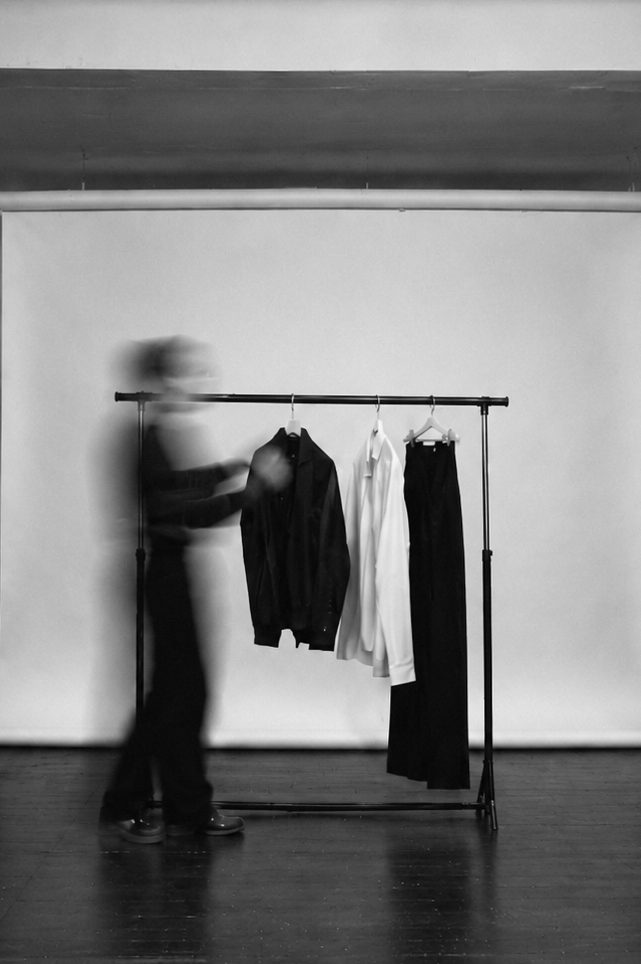
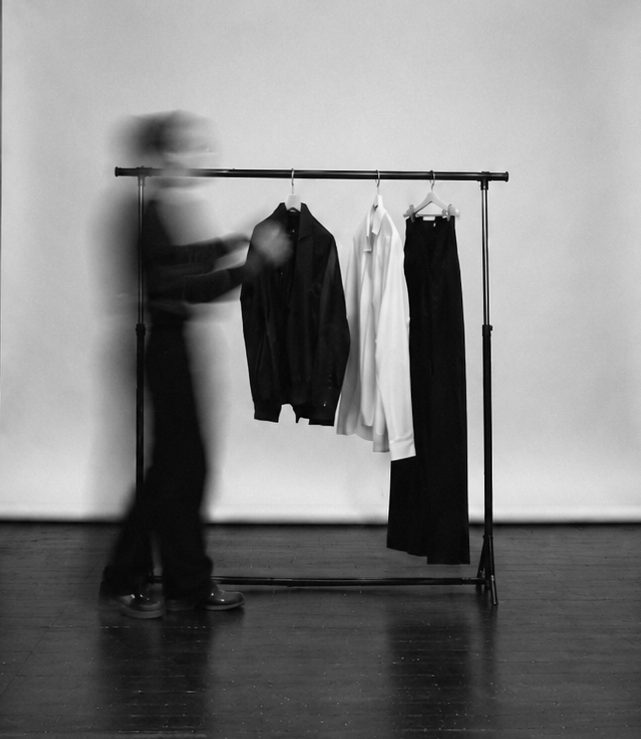
Werbung-Bild aktualisiert; Karte (Lage) unter Preisliste verschoben + Menue-Reihenfolge

diff --git a/index.html b/index.html
@@ -283,8 +283,8 @@
   </div>
   <div class="mnav-links">
     <a href="#raum" onclick="toggleMenu()"><span class="mn">01</span><span class="de">Studio</span><span class="en">Space</span></a>
-    <a href="#lage" onclick="toggleMenu()"><span class="mn">02</span><span class="de">Lage</span><span class="en">Location</span></a>
-    <a href="#angebot" onclick="toggleMenu()"><span class="mn">03</span><span class="de">Preisliste</span><span class="en">Prices</span></a>
+    <a href="#angebot" onclick="toggleMenu()"><span class="mn">02</span><span class="de">Preisliste</span><span class="en">Prices</span></a>
+    <a href="#lage" onclick="toggleMenu()"><span class="mn">03</span><span class="de">Lage</span><span class="en">Location</span></a>
     <a href="#kontakt" onclick="toggleMenu()"><span class="mn">04</span><span class="de">Kontakt</span><span class="en">Contact</span></a>
   </div>
   <div class="mnav-foot">
@@ -363,25 +363,6 @@
   </div>
 </section>
 
-<section id="lage">
-  <div class="wrap">
-    <div class="kick"><span class="de">Lage</span><span class="en">Location</span></div>
-    <h2>Neustiftgasse 107/2 &middot; 1070 Wien</h2>
-    <div class="mapfilters">
-      <button class="mfbtn on" data-cat="hotel" onclick="toggleCat(this)">Hotels</button>
-      <button class="mfbtn on" data-cat="rental" onclick="toggleCat(this)"><span class="de">Verleih</span><span class="en">Rental</span></button>
-      <button class="mfbtn on" data-cat="food" onclick="toggleCat(this)"><span class="de">Restaurants &amp; Bars</span><span class="en">Food &amp; bars</span></button>
-      <button class="mfbtn on" data-cat="shop" onclick="toggleCat(this)"><span class="de">Supermärkte</span><span class="en">Groceries</span></button>
-      <button class="mfbtn on" data-cat="transit" onclick="toggleCat(this)"><span class="de">Öffis</span><span class="en">Transit</span></button>
-    </div>
-    <div id="map" class="map lagemap"></div>
-    <div class="locgrid">
-      <div class="locblk"><div class="glab"><span class="de">Anreise</span><span class="en">Getting there</span></div><p><span class="de">Westbahnhof ~20 min · Wien Mitte ~30 min · Hauptbahnhof ~30 min · Flughafen Schwechat ~1 Std · Tram 49 &amp; 5 · Bus 48A · U6 / U2 / U3</span><span class="en">Westbahnhof ~20 min · Wien Mitte ~30 min · Central Station ~30 min · Airport ~1 hr · Tram 49 &amp; 5 · Bus 48A · U6 / U2 / U3</span></p></div>
-      <div class="locblk"><div class="glab"><span class="de">Parken</span><span class="en">Parking</span></div><p><span class="de">Hotel mit Garage Schottenfeldgasse (5 Min zu Fuß) · öffentliche Garage Burggasse (5 min)</span><span class="en">Hotel with garage on Schottenfeldgasse (5 min walk) · public garage Burggasse (5 min)</span></p></div>
-    </div>
-  </div>
-</section>
-
 <section id="angebot">
   <div class="wrap">
     <div class="kick"><span class="de">Preisliste</span><span class="en">Price list</span></div>
@@ -416,6 +397,25 @@
       </div>
     </div>
     <p class="note"><span class="de">Netto zzgl. 20% MwSt &middot; Vorbereitungstag (Vortag) &amp; Details auf Anfrage &middot; </span><span class="en">Net plus 20% VAT &middot; prep day &amp; details on request &middot; </span><a class="ulink" href="mailto:info@theframe.at?subject=FRAME%20Anfrage"><span class="de">Details anfragen</span><span class="en">Request details</span></a></p>
+  </div>
+</section>
+
+<section id="lage">
+  <div class="wrap">
+    <div class="kick"><span class="de">Lage</span><span class="en">Location</span></div>
+    <h2>Neustiftgasse 107/2 &middot; 1070 Wien</h2>
+    <div class="mapfilters">
+      <button class="mfbtn on" data-cat="hotel" onclick="toggleCat(this)">Hotels</button>
+      <button class="mfbtn on" data-cat="rental" onclick="toggleCat(this)"><span class="de">Verleih</span><span class="en">Rental</span></button>
+      <button class="mfbtn on" data-cat="food" onclick="toggleCat(this)"><span class="de">Restaurants &amp; Bars</span><span class="en">Food &amp; bars</span></button>
+      <button class="mfbtn on" data-cat="shop" onclick="toggleCat(this)"><span class="de">Supermärkte</span><span class="en">Groceries</span></button>
+      <button class="mfbtn on" data-cat="transit" onclick="toggleCat(this)"><span class="de">Öffis</span><span class="en">Transit</span></button>
+    </div>
+    <div id="map" class="map lagemap"></div>
+    <div class="locgrid">
+      <div class="locblk"><div class="glab"><span class="de">Anreise</span><span class="en">Getting there</span></div><p><span class="de">Westbahnhof ~20 min · Wien Mitte ~30 min · Hauptbahnhof ~30 min · Flughafen Schwechat ~1 Std · Tram 49 &amp; 5 · Bus 48A · U6 / U2 / U3</span><span class="en">Westbahnhof ~20 min · Wien Mitte ~30 min · Central Station ~30 min · Airport ~1 hr · Tram 49 &amp; 5 · Bus 48A · U6 / U2 / U3</span></p></div>
+      <div class="locblk"><div class="glab"><span class="de">Parken</span><span class="en">Parking</span></div><p><span class="de">Hotel mit Garage Schottenfeldgasse (5 Min zu Fuß) · öffentliche Garage Burggasse (5 min)</span><span class="en">Hotel with garage on Schottenfeldgasse (5 min walk) · public garage Burggasse (5 min)</span></p></div>
+    </div>
   </div>
 </section>
 
